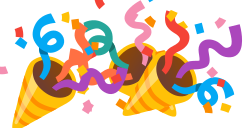
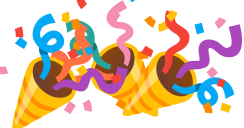
Move the middle popper left to separate the trio's cones
Shift the rear mirrored popper 18 SVG units left, reducing its overlap with the right-hand cone. Preserve the streamer permutations, glyph dimensions and kerning.

diff --git a/ligatures/supplemental/build_clusters.py b/ligatures/supplemental/build_clusters.py
@@ -185,7 +185,7 @@ def compose(family, count):
     elif family == 'popper':
         placements = (('translate(59 -1) scale(.96) rotate(8 64 64)',
                        'translate(-1 8) scale(.94) rotate(-5 64 64)') if count==2 else
-                      ('translate(63 -5) scale(.96) rotate(3 64 64)',
+                      ('translate(45 -5) scale(.96) rotate(3 64 64)',
                        'translate(0 9) scale(.94) rotate(-6 64 64)',
                        'translate(124 8) scale(.94) rotate(9 64 64)'))
     else:
